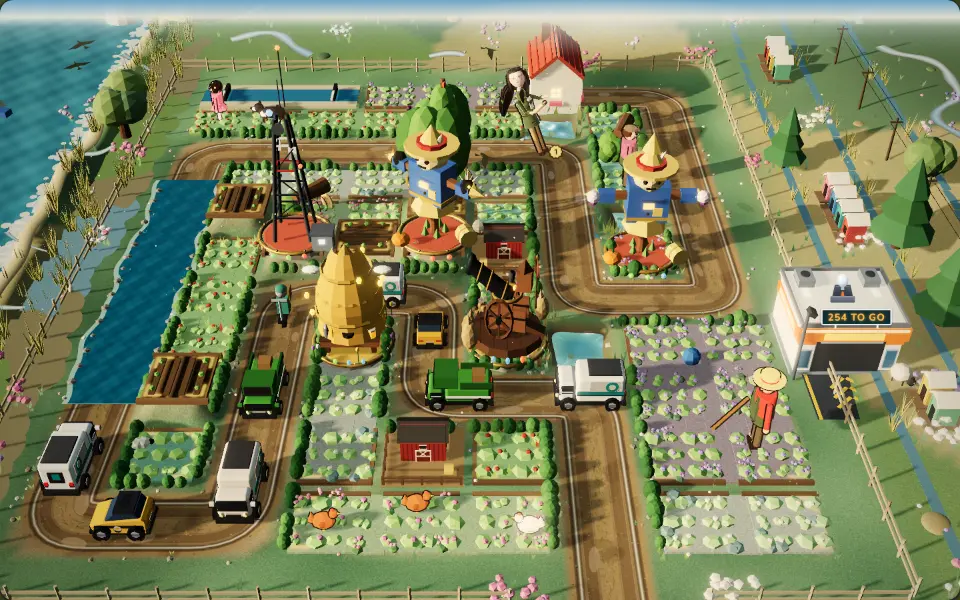
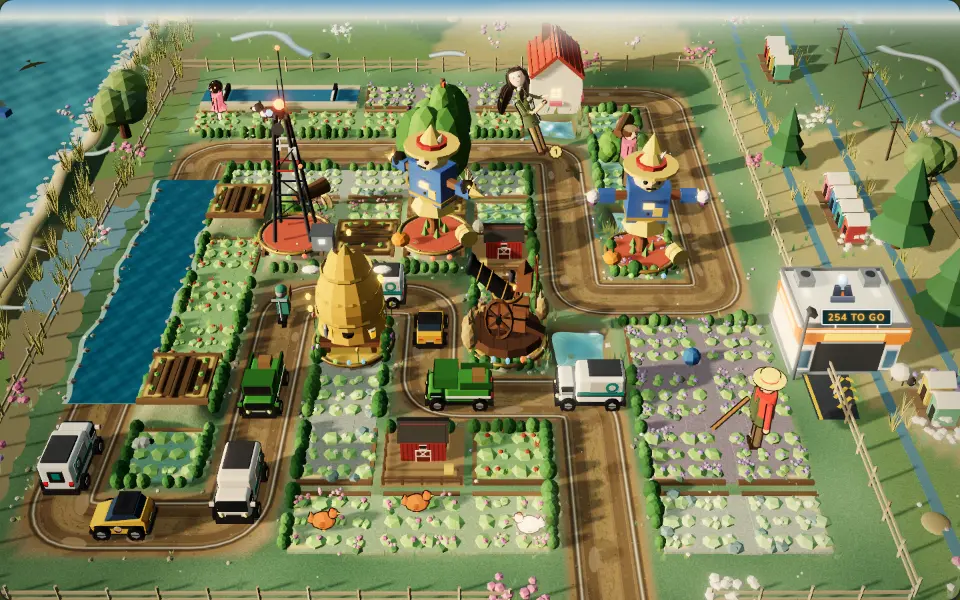
749 slice 1: Hedgerow 2D Fleet vehicles stand on proud tyres with hubs, wing mirrors at the windscreen, a shaded far side and a lit edge; the pickup's own outline (bed, narrower cab, tapered bonnet: IoU with the high-roof van 0.84 -> 0.78); e2e hedgerow-vehicles checks every pair <= 0.8; Hedgerow ke
Claude-Session: https://claude.ai/code/session_01SimvMMer2VBYf9t1cVNj37

diff --git a/games/hedgerow/src/sprites.ts b/games/hedgerow/src/sprites.ts
@@ -1609,10 +1609,43 @@ export const FLEET_TOP: Partial<Record<EnemyKind, { len: number; wid: number; bo
 
 /** Plan item 707: tyres at the body's corners, inside the class's width (`n` axles). */
 function topWheels(ctx: C, L: number, W: number, n: number, s: number): void {
-  ctx.fillStyle = "#2a2522";
+  // Plan item 749: tyres that stand proud of the body (a hair past its sides), with a pale hub line, so a vehicle
+  // reads as standing on wheels and not as a coloured tile.
   for (let i = 0; i < n; i++) {
     const wx = -L / 2 + L * (n === 2 ? (i ? 0.78 : 0.2) : 0.14 + (i * 0.7) / (n - 1));
-    for (const side of [-1, 1]) ctx.fillRect(wx - s * 0.04, side > 0 ? W / 2 - s * 0.05 : -W / 2, s * 0.08, s * 0.05);
+    for (const side of [-1, 1]) {
+      const y0 = side > 0 ? W / 2 - s * 0.055 : -W / 2 - s * 0.01;
+      ctx.fillStyle = "#2a2522";
+      ctx.beginPath();
+      ctx.roundRect(wx - s * 0.05, y0, s * 0.1, s * 0.065, s * 0.015);
+      ctx.fill();
+      ctx.fillStyle = "#8a8580";
+      ctx.fillRect(wx - s * 0.012, y0 + s * 0.012, s * 0.024, s * 0.041);
+    }
+  }
+}
+
+/** Plan item 749: where each Fleet class's windscreen starts (a share of its length from the tail): the wing mirrors
+ * stand there. */
+const SCREEN_AT: Partial<Record<EnemyKind, number>> = { hatchback: 0.58, van: 0.74, sprinter: 0.74, pickup: 0.68, lorry: 0.9 };
+
+/** Plan item 749: the body's volume from above: the far side in shade, a lit edge along the near one, and a wing
+ * mirror each side of the windscreen. */
+function topBody(ctx: C, kind: EnemyKind, L: number, bw: number, s: number): void {
+  const x0 = -L / 2;
+  ctx.fillStyle = "rgba(20,18,30,0.16)";
+  ctx.beginPath();
+  ctx.roundRect(x0 + s * 0.01, bw * 0.28, L - s * 0.02, bw * 0.2, s * 0.03);
+  ctx.fill();
+  ctx.fillStyle = "rgba(255,255,255,0.22)";
+  ctx.fillRect(x0 + L * 0.06, -bw * 0.47, L * 0.88, bw * 0.06);
+  const at = SCREEN_AT[kind];
+  if (at === undefined) return;
+  ctx.fillStyle = "#2b2b30";
+  for (const side of [-1, 1]) {
+    ctx.beginPath();
+    ctx.roundRect(x0 + L * at, side > 0 ? bw / 2 - s * 0.005 : -bw / 2 - s * 0.035, s * 0.035, s * 0.04, s * 0.01);
+    ctx.fill();
   }
 }
 
@@ -1675,7 +1708,26 @@ function fleetTop(ctx: C, kind: EnemyKind, s: number): void {
     }
     case "pickup": {
       topWheels(ctx, L, W, 2, s);
-      rr(ctx, x0, -bw / 2, L, bw, s * 0.04, f.body);
+      // Plan item 749: its own outline, not a box: the bed full width, the cab a little narrower, the bonnet tapering
+      // to the nose (its mask overlapped the high-roof van's by 0.84; now under 0.8).
+      ctx.fillStyle = f.body;
+      ctx.beginPath();
+      ctx.moveTo(x0 + s * 0.03, -bw / 2);
+      ctx.lineTo(x0 + L * 0.5, -bw / 2);
+      ctx.lineTo(x0 + L * 0.5, -bw * 0.41);
+      ctx.lineTo(x0 + L * 0.78, -bw * 0.41);
+      ctx.quadraticCurveTo(x0 + L, -bw * 0.36, x0 + L, -bw * 0.08);
+      ctx.lineTo(x0 + L, bw * 0.08);
+      ctx.quadraticCurveTo(x0 + L, bw * 0.36, x0 + L * 0.78, bw * 0.41);
+      ctx.lineTo(x0 + L * 0.5, bw * 0.41);
+      ctx.lineTo(x0 + L * 0.5, bw / 2);
+      ctx.lineTo(x0 + s * 0.03, bw / 2);
+      ctx.quadraticCurveTo(x0, bw / 2, x0, bw / 2 - s * 0.03);
+      ctx.lineTo(x0, -bw / 2 + s * 0.03);
+      ctx.quadraticCurveTo(x0, -bw / 2, x0 + s * 0.03, -bw / 2);
+      ctx.closePath();
+      ctx.fill();
+      ctx.stroke();
       // The cab up front (roof and windscreen), the open bed behind with a crate in it.
       glass(ctx, x0 + L * 0.68, L * 0.08, bw);
       rr(ctx, x0 + L * 0.5, -bw * 0.36, L * 0.18, bw * 0.72, s * 0.03, "#3c7a2d");
@@ -1694,6 +1746,7 @@ function fleetTop(ctx: C, kind: EnemyKind, s: number): void {
       break;
     }
   }
+  topBody(ctx, kind, L, bw, s);
   if (kind !== "lorry") {
     ctx.fillStyle = "#fff2a8";
     for (const side of [-1, 1]) {

diff --git a/e2e-site/hedgerow-vehicles.spec.ts b/e2e-site/hedgerow-vehicles.spec.ts
@@ -39,3 +39,33 @@ test('2D vehicles are long enough to read and each has its own silhouette', asyn
   for (const [k, len] of r.lens) expect(len, `${k} at a ${r.cell} px cell`).toBeGreaterThanOrEqual(min)
   expect(r.same).toEqual([])
 })
+
+// Plan item 749: the Fleet's six classes told apart by outline alone (the greyscale test): any two classes' masks,
+// drawn from above at the field's cell, overlap by 0.8 or less (intersection over union).
+test('the Fleet classes differ in outline: pairwise mask IoU 0.8 or less (plan item 749)', async ({ page }) => {
+  test.setTimeout(120_000)
+  await page.goto('/hedgerow/?sandbox=1&2d&level=27')
+  await page.waitForFunction(() => !!(window as unknown as { hedgerow?: HG }).hedgerow?.game(), null, { timeout: 60_000 })
+  const r = await page.evaluate(() => {
+    const hg = (window as unknown as { hedgerow: HG }).hedgerow
+    const cell = Math.round(hg.cellCenter(1, 0)!.x - hg.cellCenter(0, 0)!.x)
+    const kinds = ['courier', 'hatchback', 'van', 'pickup', 'sprinter', 'lorry']
+    const sils = kinds.map((k) => [k, hg.enemySilhouette(k, cell)] as const)
+    const pairs: Array<[string, number]> = []
+    for (let i = 0; i < sils.length; i++)
+      for (let j = i + 1; j < sils.length; j++) {
+        const a = sils[i]![1].mask
+        const b = sils[j]![1].mask
+        let and = 0
+        let or = 0
+        for (let p = 0; p < a.length; p++) {
+          and += a[p]! & b[p]!
+          or += a[p]! | b[p]!
+        }
+        pairs.push([`${sils[i]![0]}~${sils[j]![0]}`, Math.round((and / Math.max(1, or)) * 100) / 100])
+      }
+    return { cell, pairs }
+  })
+  console.log(r.cell, JSON.stringify(r.pairs))
+  expect(r.pairs.filter(([, iou]) => iou > 0.8)).toEqual([])
+})
